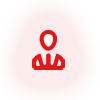
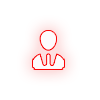
Development: add top bar

Changed region(s): [[0.33, 0.54, 0.66, 0.69], [0.39, 0.3, 0.57, 0.51]]

diff --git a/Source_Code/Gitmining/GitClient/src/main/java/edu/nju/ui/control/TaskPanel.java b/Source_Code/Gitmining/GitClient/src/main/java/edu/nju/ui/control/TaskPanel.java
@@ -7,9 +7,7 @@ import java.util.Stack;
 import edu.nju.git.main.Main;
 import edu.nju.git.ui.config.ScreenShot;
 import edu.nju.git.ui.config.StringReader;
-import javafx.event.EventHandler;
 import javafx.fxml.FXML;
-import javafx.scene.control.Button;
 import javafx.scene.image.Image;
 import javafx.scene.image.ImageView;
 import javafx.scene.input.MouseEvent;
@@ -35,46 +33,25 @@ public class TaskPanel extends GitPanel{
 	@FXML ImageView img_home;
 	@FXML ImageView img_user;
 	@FXML ImageView img_repo;
+	@FXML ImageView img_back;
+	@FXML ImageView img_forward;
 	private Stack<ScreenShot> functions = new Stack<>();
 
 	@Override
 	public void initialize(URL location, ResourceBundle resources) {
-		img_home.setOnMouseEntered(new EventHandler<MouseEvent>() {
-			@Override
-			public void handle(MouseEvent event) {
-				img_home.setImage(getNewImage("home_main_1"));
-			}
-		});
-		img_home.setOnMouseExited(new EventHandler<MouseEvent>() {
-			@Override
-			public void handle(MouseEvent event) {
-				img_home.setImage(getNewImage("home_main"));
-			}
-		});
-		img_user.setOnMouseEntered(new EventHandler<MouseEvent>() {
-			@Override
-			public void handle(MouseEvent event) {
-				img_user.setImage(getNewImage("user_main_1"));
-			}
-		});
-		img_user.setOnMouseExited(new EventHandler<MouseEvent>() {
-			@Override
-			public void handle(MouseEvent event) {
-				img_user.setImage(getNewImage("user_main"));
-			}
-		});
-		img_repo.setOnMouseEntered(new EventHandler<MouseEvent>() {
-			@Override
-			public void handle(MouseEvent event) {
-				img_repo.setImage(getNewImage("repository_main_1"));
-			}
-		});
-		img_repo.setOnMouseExited(new EventHandler<MouseEvent>() {
-			@Override
-			public void handle(MouseEvent event) {
-				img_repo.setImage(getNewImage("repository_main"));
-			}
-		});
+		img_home.setOnMouseEntered(new ChangePictureHandler<MouseEvent>("home_main_1", img_home));
+		img_home.setOnMouseExited(new ChangePictureHandler<>("home_main", img_home));
+		img_home.setOnMousePressed(new ChangePictureHandler<>("home_main_2", img_home));
+		img_user.setOnMouseEntered(new ChangePictureHandler<>("user_main_1", img_user));
+		img_user.setOnMouseExited(new ChangePictureHandler<>("user_main", img_user));
+		img_user.setOnMousePressed(new ChangePictureHandler<>("user_main_2", img_user));
+		img_repo.setOnMouseEntered(new ChangePictureHandler<>("repository_main_1", img_repo));
+		img_repo.setOnMouseExited(new ChangePictureHandler<>("repository_main", img_repo));
+		img_repo.setOnMousePressed(new ChangePictureHandler<>("repository_main_2", img_repo));
+		img_back.setOnMouseEntered(new ChangePictureHandler<>("back_1", img_back));
+		img_back.setOnMouseExited(new ChangePictureHandler<>("back", img_back));
+		img_forward.setOnMouseEntered(new ChangePictureHandler<>("front_1", img_forward));
+		img_forward.setOnMouseExited(new ChangePictureHandler<>("front", img_forward));
 	}
 
 	@Override

diff --git a/Source_Code/Gitmining/GitClient/src/main/java/edu/nju/ui/control/ChangePictureHandler.java b/Source_Code/Gitmining/GitClient/src/main/java/edu/nju/ui/control/ChangePictureHandler.java
@@ -1,0 +1,39 @@
+package edu.nju.ui.control;
+
+import java.net.URL;
+
+import edu.nju.git.main.Main;
+import edu.nju.git.ui.config.StringReader;
+import javafx.event.Event;
+import javafx.event.EventHandler;
+import javafx.scene.control.Button;
+import javafx.scene.image.Image;
+import javafx.scene.image.ImageView;
+
+/**
+ * Change picture when needed.
+ * @author cuihao
+ *
+ * @param <T>
+ */
+public class ChangePictureHandler<T extends Event> implements EventHandler<Event> {
+
+	private String pic;
+	private ImageView view;
+	
+	public ChangePictureHandler(String picName, ImageView view) {
+		pic = picName;
+		this.view = view;
+	}
+	
+	@Override
+	public void handle(Event event) {
+		view.setImage(getNewImage(pic));
+	}
+	
+	private Image getNewImage(String s){
+		URL url = Main.class.getResource(StringReader.readPath("picture")+"button/"+s+".png");
+		return new Image(url.toString());
+	}
+
+}
